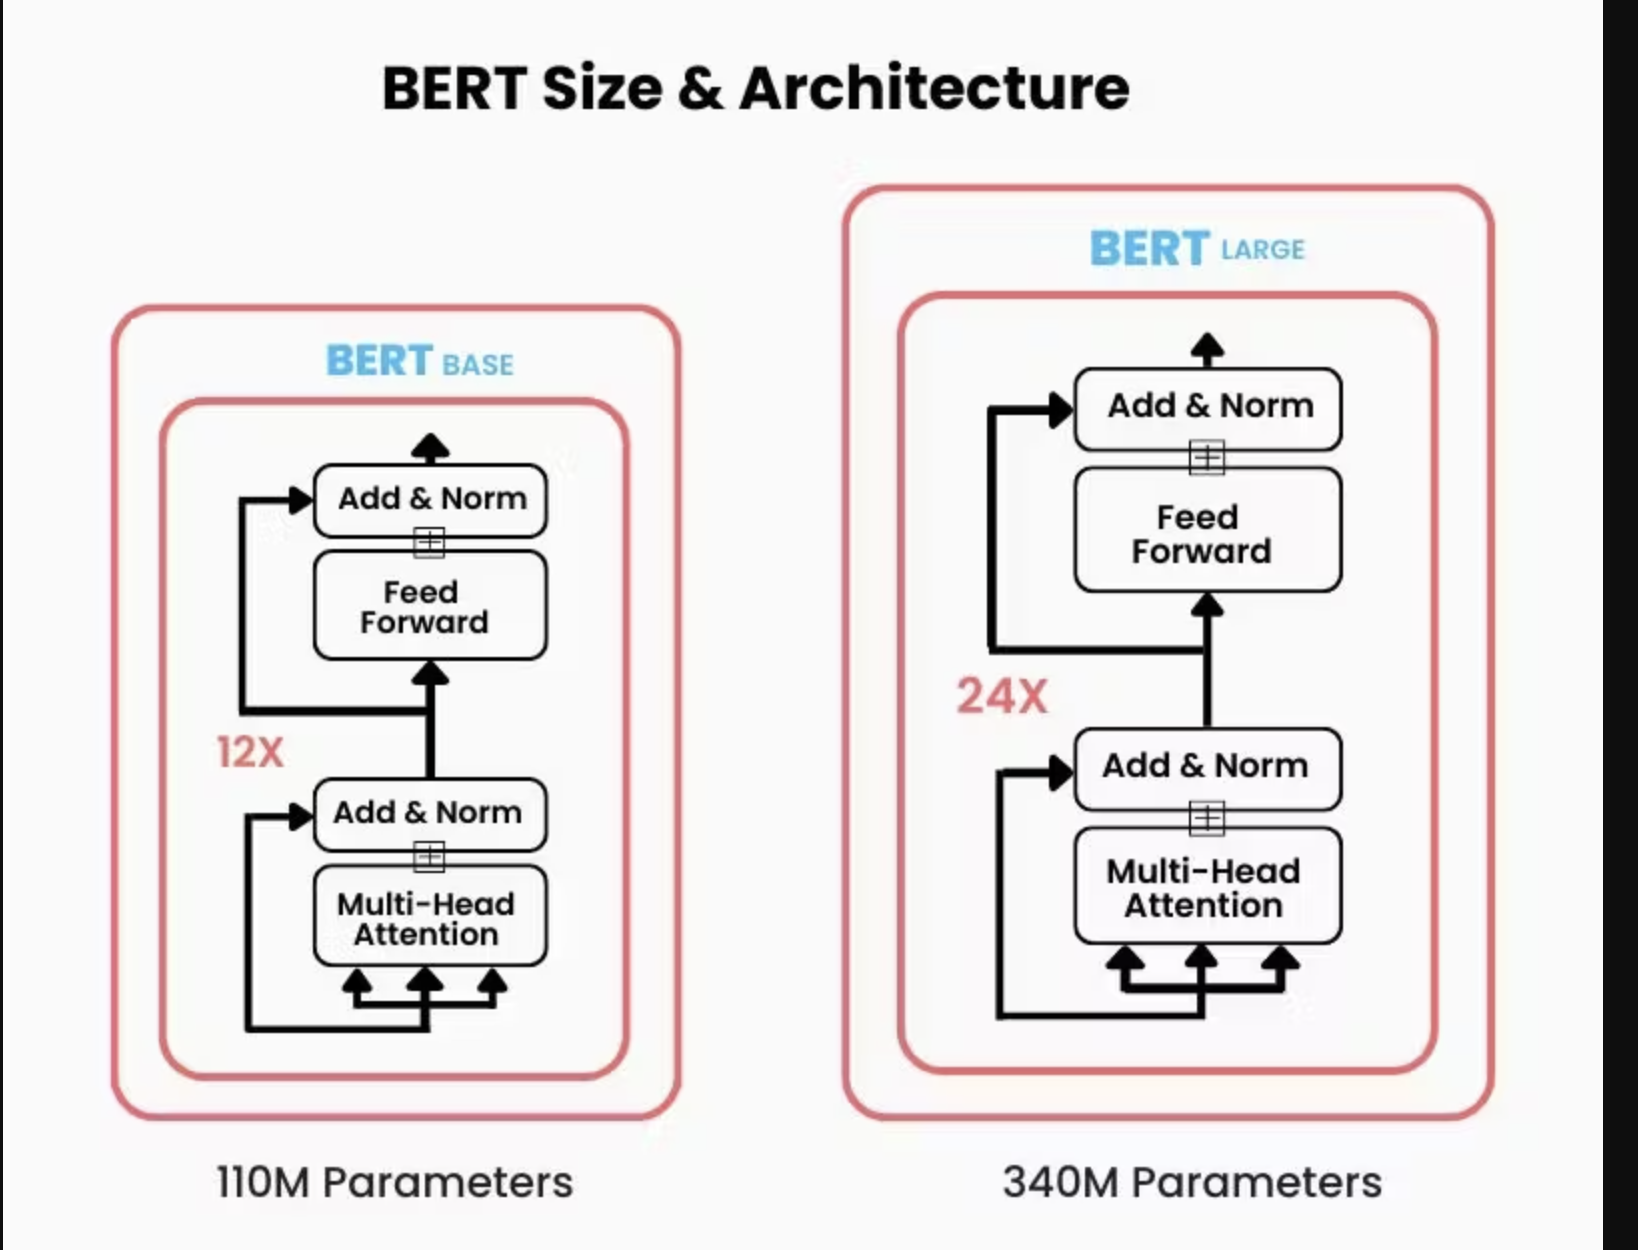
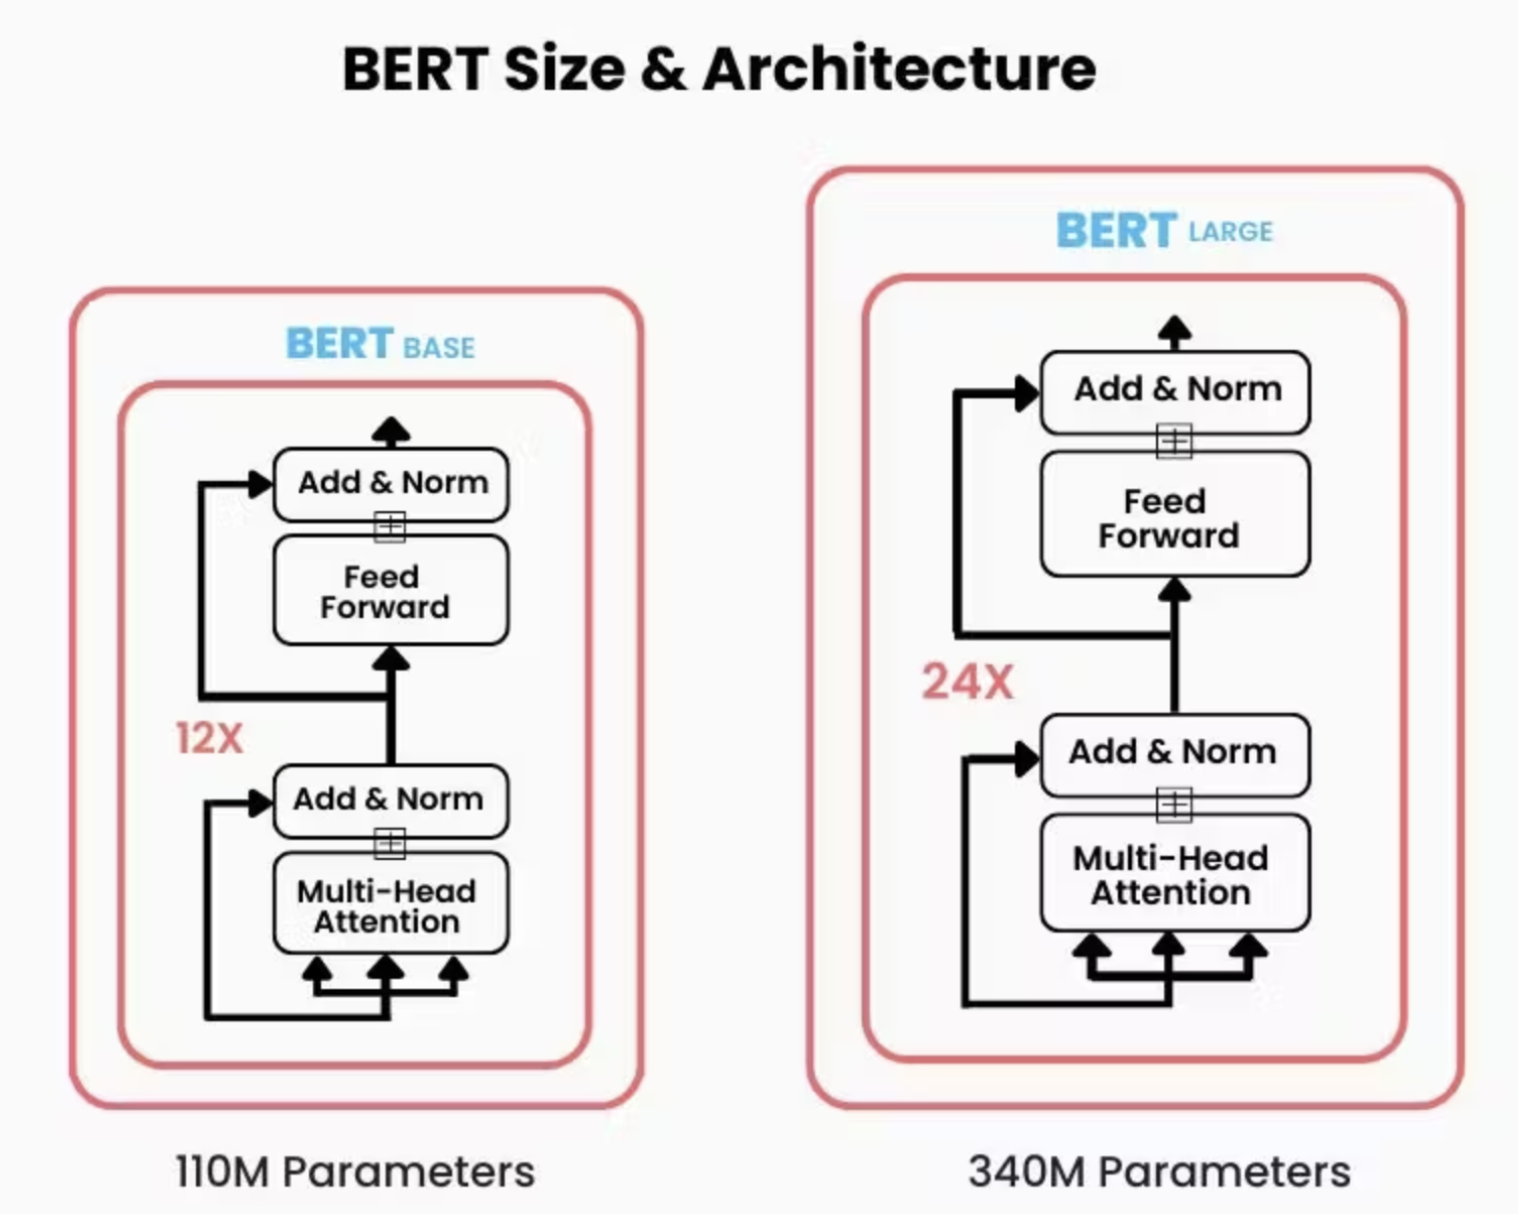
fixed the image dimensions of model arch diagrams in README.md

Changed region(s): [[0.4954, 0.0, 1.0, 1.0], [0.031, 0.2133, 0.4335, 0.9753], [0.2167, 0.0305, 0.7431, 0.0914]]

diff --git a/papers/README.md b/papers/README.md
@@ -10,7 +10,7 @@ This is my feeble attempt at reading and implementing various NLP papers. Mostly
 This implementation of BERT follows the original architecture, consisting of a stack of transformer-based **Encoder Blocks**. Each block contains a **Multi-Head Self-Attention** mechanism followed by a **Feed-Forward Neural Network**, both of which include residual connections and layer normalization. The model uses token, positional, and segment embeddings to handle input sequences, with masking applied for padding tokens.
 
 
-<img src="images/bert.png" alt="BERT Architecture" width="500" height="300">
+<img src="images/bert.png" alt="BERT Architecture" width="700" height="400">
 
 
 ```python
@@ -77,7 +77,7 @@ print(preds.shape) # Output shape: (BATCH_SIZE, SEQ_LEN, VOCAB_SIZE)
 ## GPTv2
 This implementation of GPT-2 builds upon the architecture of GPT-1, with a similar stack of transformer-based Decoder Blocks. Each block contains a Masked Multi-Head Self-Attention mechanism and a Feed-Forward Neural Network, both using pre-activation layer normalization and residual connections. GPT-2 also uses causal masking in the attention mechanism to ensure that tokens can only attend to past and current positions, maintaining the autoregressive nature of the model. The input sequences are represented through learned token and positional embeddings. GPT-2 improves over GPT-1 with an increased context window, larger model size, expanded vocabulary, and more robust training, making it well-suited for a wide range of generative tasks where text is predicted one token at a time based on preceding tokens.
 
-<img src="images/gptv2.png" alt="GPTv2 Architecture" width="500" height="300">
+<img src="images/gptv2.png" alt="GPTv2 Architecture" width="700" height="300">
 
 ```python
 import torch
